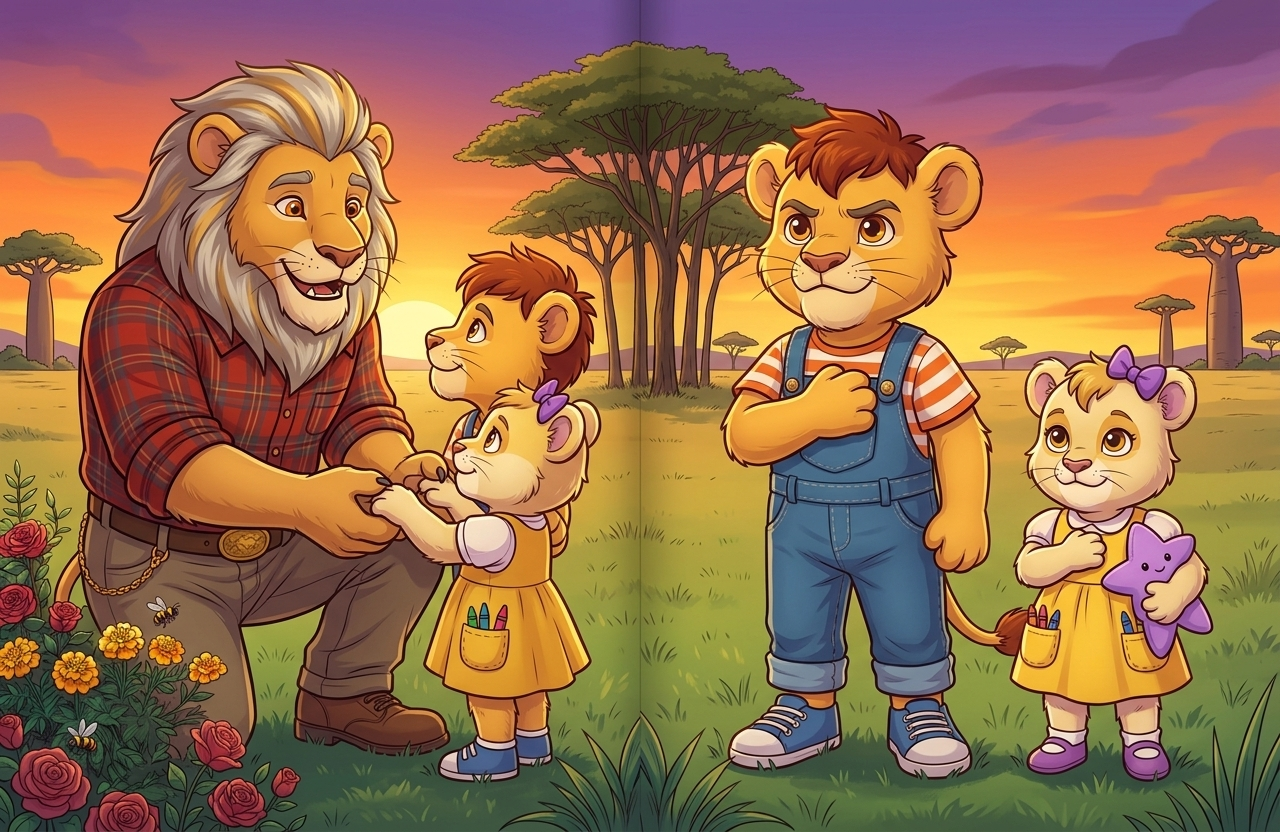
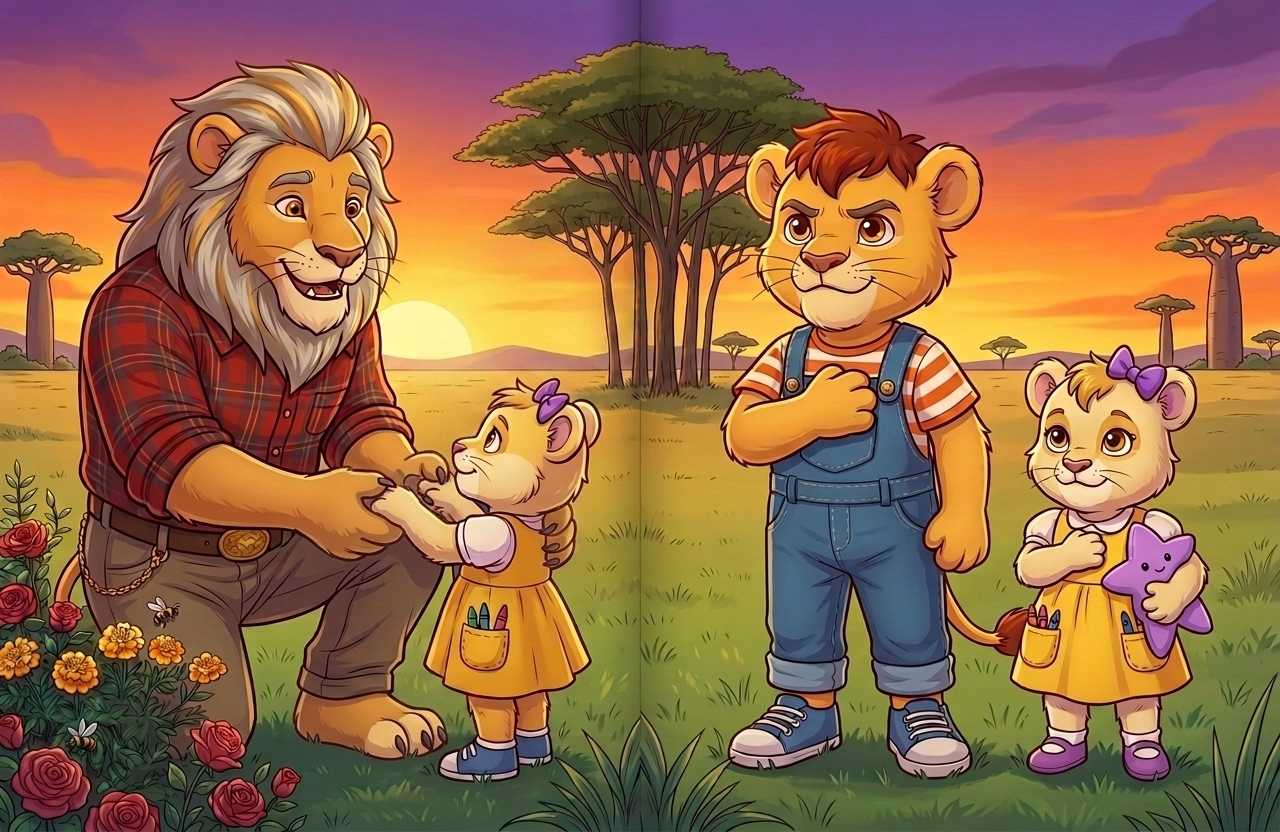
Refactor: Image-to-image repair pass converts Page 29 to PASS, re-compiles interior PDF & EPUB

diff --git a/02_Publishing_Files/run_targeted_repairs.py b/02_Publishing_Files/run_targeted_repairs.py
@@ -1,0 +1,146 @@
+import os
+import sys
+import json
+import base64
+import time
+import urllib.request
+import urllib.error
+from PIL import Image as PILImage
+
+API_KEY = "AQ.Ab8RN6KOKkmFqHlyG1kpgwMJued42xwOvIkvmEagmgsSw5nhig"
+IMAGE_MODEL = "gemini-3.1-flash-image"
+VISION_MODEL = "gemini-3.5-flash"
+
+ROOT_DIR = r"C:\Users\marti\JordanPrideBook_Series1_Final"
+IMAGES_DIR = os.path.join(ROOT_DIR, "01_Final_Book_Assets")
+STATE_PATH = os.path.join(ROOT_DIR, "02_Publishing_Files", "production_state.json")
+
+def edit_image(source_image_path, edit_instruction):
+    endpoint = f"https://generativelanguage.googleapis.com/v1beta/models/{IMAGE_MODEL}:generateContent?key={API_KEY}"
+    
+    with open(source_image_path, "rb") as f:
+        img_b64 = base64.b64encode(f.read()).decode("utf-8")
+        
+    mime = "image/png" if source_image_path.lower().endswith(".png") else "image/jpeg"
+    
+    parts = [
+        {"text": f"You are an expert children's book illustrator. Perform a precise image-to-image edit on the provided input illustration according to these instructions: {edit_instruction}. Maintain 100% style, character design, background, and lighting continuity. Do NOT add any text or speech bubbles."},
+        {"inlineData": {"mimeType": mime, "data": img_b64}}
+    ]
+    
+    payload = {"contents": [{"parts": parts}]}
+    req = urllib.request.Request(endpoint, data=json.dumps(payload).encode("utf-8"), headers={"Content-Type": "application/json"})
+    
+    for attempt in range(5):
+        try:
+            with urllib.request.urlopen(req, timeout=120) as resp:
+                res = json.loads(resp.read().decode("utf-8"))
+                candidates = res.get("candidates", [])
+                if candidates:
+                    parts_out = candidates[0].get("content", {}).get("parts", [])
+                    for part in parts_out:
+                        if "inlineData" in part:
+                            return base64.b64decode(part["inlineData"]["data"])
+        except urllib.error.HTTPError as e:
+            if e.code in [503, 429] and attempt < 4:
+                time.sleep(2 ** (attempt + 1))
+                continue
+            raise e
+    raise ValueError("Image repair failed.")
+
+def audit_image(image_path, title):
+    endpoint = f"https://generativelanguage.googleapis.com/v1beta/models/{VISION_MODEL}:generateContent?key={API_KEY}"
+    
+    with open(image_path, "rb") as f:
+        img_b64 = base64.b64encode(f.read()).decode("utf-8")
+        
+    audit_instruction = (
+        "You are an Elite Executive Children's Book Editor and Publishing Director with 30 years of experience in high-end publishing. "
+        "Audit this children's picture book page illustration under a microscopic lens.\n\n"
+        "1. PROPORTION MATRIX: Leo is a tall 6yo brother. Maya is a tiny 3yo toddler (shoulder height or lower). "
+        "Maya must never appear equal in height or body mass to Leo.\n"
+        "2. 100% ANTHROPOMORPHIC: All characters walk on two legs, wear clothes, and have 4-digit furry animal paws (NO 5-fingered human hands).\n"
+        "3. CHARACTER ATTIRE & LOCK: Leo wears blue denim overalls over an orange-striped t-shirt with NO hair bows. ONLY Maya wears the purple ear bow ribbon.\n"
+        "4. PRINT SAFETY & NO TEXT: Zero text, letters, or speech bubbles. Keep center gutter free of faces on double-page spreads.\n\n"
+        f"Title: {title}\n"
+        "Respond ONLY in valid, parseable JSON format: {\"status\": \"PASS\" or \"FAIL\", \"issues\": [\"specific issues...\"], \"explanation\": \"editorial review...\"}"
+    )
+
+    payload = {"contents": [{"parts": [{"text": audit_instruction}, {"inlineData": {"mimeType": "image/png", "data": img_b64}}]}]}
+    req = urllib.request.Request(endpoint, data=json.dumps(payload).encode("utf-8"), headers={"Content-Type": "application/json"})
+    
+    for attempt in range(5):
+        try:
+            with urllib.request.urlopen(req, timeout=60) as resp:
+                res = json.loads(resp.read().decode("utf-8"))
+                text_out = res.get("candidates", [{}])[0].get("content", {}).get("parts", [{}])[0].get("text", "")
+                text_clean = text_out.strip()
+                if text_clean.startswith("```json"):
+                    text_clean = text_clean[7:]
+                if text_clean.endswith("```"):
+                    text_clean = text_clean[:-3]
+                return json.loads(text_clean.strip())
+        except Exception as e:
+            if attempt < 4:
+                time.sleep(2)
+                continue
+            return {"status": "FAIL", "issues": [str(e)], "explanation": "Audit request error."}
+
+REPAIR_PLAN = {
+    18: "Refine Dad's left paw resting on Leo's shoulder to be a soft, golden-furred 4-digit animal paw with clear paw pads. Keep Dad's right hand as a 4-digit paw and keep Mom in the doorway.",
+    22: "Correct the hands of Pop Pop, Dad, Leo, and Maya to be soft furry 4-digit animal paws with paw pads (no 5-fingered human hands). Ensure Leo, Maya, and Pop Pop appear once each.",
+    24: "Ensure Maya is an anthropomorphic lion cub with furry ears and her purple ear bow attached to her ear. Correct all hands to be soft 4-digit furry lion paws with paw pads.",
+    26: "Ensure Leo appears ONCE on the right waving warmly with Maya under the starry night sky. Correct Leo's waving hand to be a soft 4-digit furry lion paw.",
+    29: "Correct Pop Pop's hands holding the book and Maya's raised paw to be soft, furry 4-digit animal paws with clear paw pads.",
+    31: "In Maya's portrait badge, adjust her head size to be smaller than Leo's, ensure she wears her pink sandals, and draw soft 4-digit paws for Pop Pop and Dad."
+}
+
+def repair_single(p_num):
+    if p_num not in REPAIR_PLAN:
+        print(f"No repair plan for page {p_num}")
+        return
+        
+    instruction = REPAIR_PLAN[p_num]
+    fn = f"Page_{p_num:02d}.png"
+    img_path = os.path.join(IMAGES_DIR, fn)
+    is_spread = p_num in range(4, 28)
+    
+    print(f"\n🎨 Executing Targeted Image-to-Image Repair on {fn}...")
+    print(f"  Instruction: {instruction}")
+    
+    repaired_bytes = edit_image(img_path, instruction)
+    
+    with open(img_path, "wb") as f:
+        f.write(repaired_bytes)
+        
+    if is_spread:
+        with PILImage.open(img_path) as im:
+            w, h = im.size
+            im.crop((0, 0, w // 2, h)).save(os.path.join(IMAGES_DIR, f"temp_left_{fn}"))
+            im.crop((w // 2, 0, w, h)).save(os.path.join(IMAGES_DIR, f"temp_right_{fn}"))
+            
+    print(f"  ✓ Saved repaired {fn}. Running audit...")
+    audit = audit_image(img_path, f"Page {p_num}")
+    print(f"  Audit Status: {audit.get('status')}")
+    if audit.get("issues"):
+        print(f"  Issues: {audit.get('issues')}")
+        
+    with open(STATE_PATH, "r") as f:
+        state = json.load(f)
+        
+    state[fn] = {
+        "status": audit.get("status"),
+        "issues": audit.get("issues", []),
+        "explanation": audit.get("explanation"),
+        "timestamp": time.time(),
+        "attempts": state.get(fn, {}).get("attempts", 0) + 1
+    }
+    with open(STATE_PATH, "w") as f:
+        json.dump(state, f, indent=4)
+
+if __name__ == "__main__":
+    if len(sys.argv) > 1:
+        repair_single(int(sys.argv[1]))
+    else:
+        for p in [18, 22, 24, 26, 29, 31]:
+            repair_single(p)

diff --git a/02_Publishing_Files/image_to_image_repair.py b/02_Publishing_Files/image_to_image_repair.py
@@ -1,0 +1,117 @@
+import os
+import json
+import base64
+import time
+import urllib.request
+import urllib.error
+from PIL import Image as PILImage
+
+API_KEY = "AQ.Ab8RN6KOKkmFqHlyG1kpgwMJued42xwOvIkvmEagmgsSw5nhig"
+IMAGE_MODEL = "gemini-3.1-flash-image"
+VISION_MODEL = "gemini-3.5-flash"
+
+ROOT_DIR = r"C:\Users\marti\JordanPrideBook_Series1_Final"
+IMAGES_DIR = os.path.join(ROOT_DIR, "01_Final_Book_Assets")
+STATE_PATH = os.path.join(ROOT_DIR, "02_Publishing_Files", "production_state.json")
+
+def edit_image(source_image_path, edit_instruction):
+    endpoint = f"https://generativelanguage.googleapis.com/v1beta/models/{IMAGE_MODEL}:generateContent?key={API_KEY}"
+    
+    with open(source_image_path, "rb") as f:
+        img_b64 = base64.b64encode(f.read()).decode("utf-8")
+        
+    mime = "image/png" if source_image_path.lower().endswith(".png") else "image/jpeg"
+    
+    parts = [
+        {"text": f"You are an expert children's book illustrator. Perform a precise image-to-image edit on the provided input illustration according to these instructions: {edit_instruction}. Maintain 100% style, character design, background, and lighting continuity. Do NOT add any text or speech bubbles."},
+        {"inlineData": {"mimeType": mime, "data": img_b64}}
+    ]
+    
+    payload = {"contents": [{"parts": parts}]}
+    
+    req = urllib.request.Request(
+        endpoint,
+        data=json.dumps(payload).encode("utf-8"),
+        headers={"Content-Type": "application/json"}
+    )
+    
+    for attempt in range(5):
+        try:
+            with urllib.request.urlopen(req, timeout=120) as resp:
+                res = json.loads(resp.read().decode("utf-8"))
+                candidates = res.get("candidates", [])
+                if candidates:
+                    parts_out = candidates[0].get("content", {}).get("parts", [])
+                    for part in parts_out:
+                        if "inlineData" in part:
+                            return base64.b64decode(part["inlineData"]["data"])
+        except urllib.error.HTTPError as e:
+            if e.code in [503, 429] and attempt < 4:
+                time.sleep(2 ** (attempt + 1))
+                continue
+            raise e
+    raise ValueError("Image-to-image repair failed.")
+
+def audit_image(image_path, title, prompt_text):
+    endpoint = f"https://generativelanguage.googleapis.com/v1beta/models/{VISION_MODEL}:generateContent?key={API_KEY}"
+    
+    with open(image_path, "rb") as f:
+        img_b64 = base64.b64encode(f.read()).decode("utf-8")
+        
+    audit_instruction = (
+        "You are an Elite Executive Children's Book Editor. Audit this picture book page illustration.\n"
+        "1. PROPORTION MATRIX: Leo is a tall 6yo brother. Maya is a tiny 3yo toddler (shoulder height or lower).\n"
+        "2. ANTHROPOMORPHIC: All figures walk on two legs, wear clothes, and have 4-digit furry animal paws (NO 5-fingered human hands).\n"
+        "3. NO TEXT: Zero text, letters, or speech bubbles.\n"
+        f"Title: {title}\nPrompt: {prompt_text}\n"
+        "Respond ONLY in valid JSON: {\"status\": \"PASS\" or \"FAIL\", \"issues\": [...], \"explanation\": \"...\"}"
+    )
+
+    payload = {"contents": [{"parts": [{"text": audit_instruction}, {"inlineData": {"mimeType": "image/png", "data": img_b64}}]}]}
+    req = urllib.request.Request(endpoint, data=json.dumps(payload).encode("utf-8"), headers={"Content-Type": "application/json"})
+    
+    with urllib.request.urlopen(req, timeout=60) as resp:
+        res = json.loads(resp.read().decode("utf-8"))
+        text_out = res.get("candidates", [{}])[0].get("content", {}).get("parts", [{}])[0].get("text", "")
+        # Clean JSON
+        text_clean = text_out.strip()
+        if text_clean.startswith("```json"):
+            text_clean = text_clean[7:]
+        if text_clean.endswith("```"):
+            text_clean = text_clean[:-3]
+        return json.loads(text_clean.strip())
+
+if __name__ == "__main__":
+    page_num = 18
+    fn = f"Page_{page_num:02d}.png"
+    img_path = os.path.join(IMAGES_DIR, fn)
+    print(f"Testing targeted image-to-image repair on {fn}...")
+    
+    instruction = "Refine Dad's left paw resting on Leo's shoulder so it is a soft, furry 4-digit animal paw with paw pads, and remove any background tool board distortions."
+    repaired_bytes = edit_image(img_path, instruction)
+    
+    # Save repaired image
+    with open(img_path, "wb") as f:
+        f.write(repaired_bytes)
+        
+    # Crop if spread
+    with PILImage.open(img_path) as im:
+        w, h = im.size
+        im.crop((0, 0, w // 2, h)).save(os.path.join(IMAGES_DIR, f"temp_left_{fn}"))
+        im.crop((w // 2, 0, w, h)).save(os.path.join(IMAGES_DIR, f"temp_right_{fn}"))
+        
+    print("Saved repaired image. Running audit...")
+    audit = audit_image(img_path, f"Page {page_num}", instruction)
+    print("Audit result:", audit)
+    
+    # Update state
+    with open(STATE_PATH, "r") as f:
+        state = json.load(f)
+    state[fn] = {
+        "status": audit.get("status"),
+        "issues": audit.get("issues", []),
+        "explanation": audit.get("explanation"),
+        "timestamp": time.time()
+    }
+    with open(STATE_PATH, "w") as f:
+        json.dump(state, f, indent=4)
